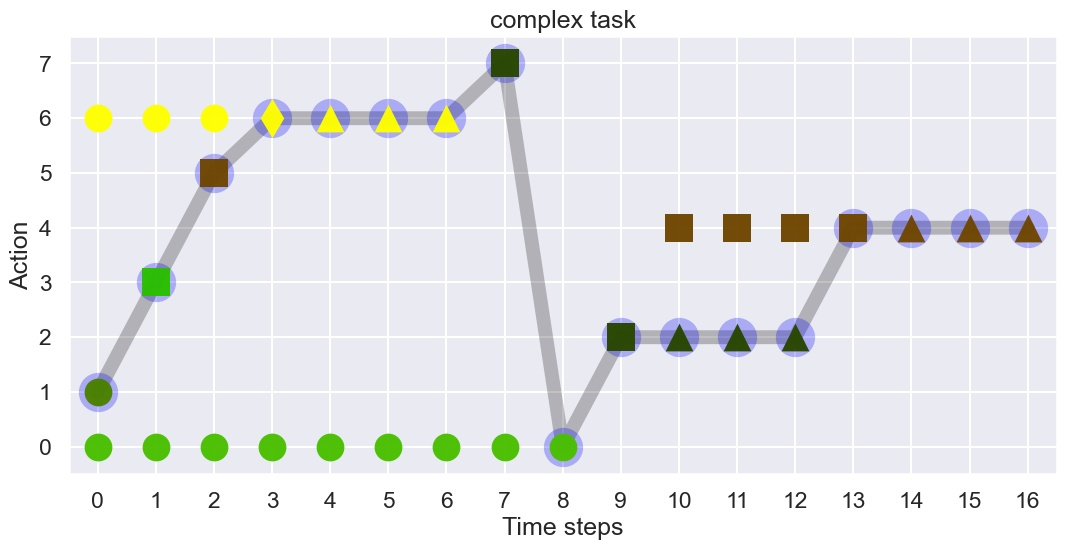
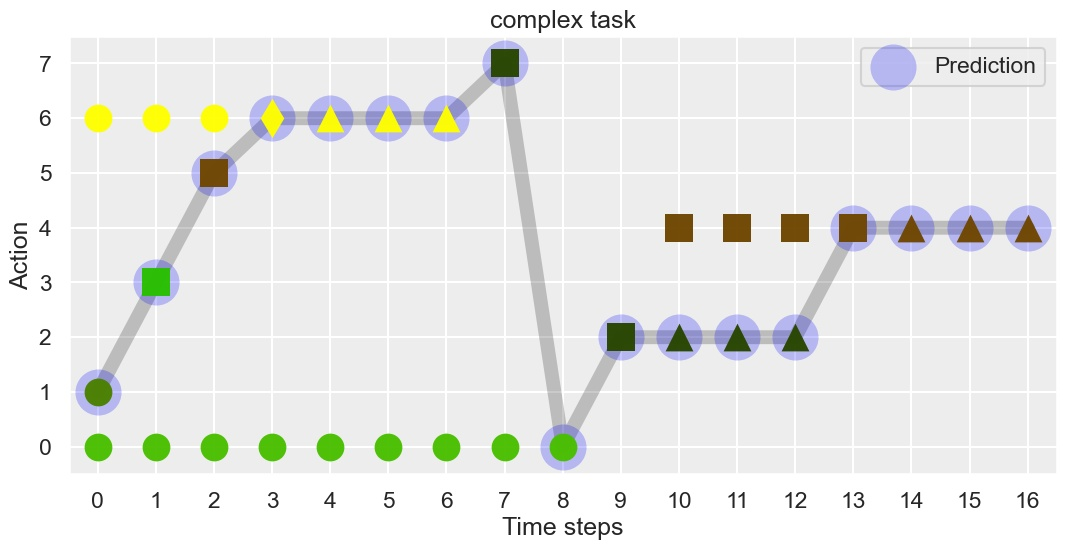
new visualize

diff --git a/src/visualize.py b/src/visualize.py
@@ -22,13 +22,13 @@ def visualize_rel_actions(task, demo, idx, prefix, predictions=None):
     else:
         fig_width = 6
 
-    sns.set(style="darkgrid", context="talk")
-    fig = plt.figure(figsize=(fig_width, 6))
+    sns.set(style="darkgrid", context="talk", rc={'axes.facecolor': '0.93'})
+    plt.figure(figsize=(fig_width, 6))
     plt.xlabel('Time steps')
     plt.ylabel('Action')
 
     # plot user sequence
-    plt.plot(range(len(demo)), demo, "k", zorder=1, alpha=0.27, linewidth=10)
+    plt.plot(range(len(demo)), demo, "k", zorder=1, alpha=0.23, linewidth=10)
     feat_order = 2
 
     # plot the features for each action
@@ -37,9 +37,9 @@ def visualize_rel_actions(task, demo, idx, prefix, predictions=None):
         # plot predictions
         if predictions:
             pred_a = list(set(predictions[step]))
-            plt.scatter([step] * len(pred_a), pred_a, s=800, c=[[0.0, 0.0, 1.0]], marker="o", zorder=2, alpha=0.27,
-                        linewidth=0.0)
-
+            scat = plt.scatter([step] * len(pred_a), pred_a, s=1100, facecolor=(0, 0, 1, 0.23), label="Prediction",
+                               edgecolors=(0, 0, 0.1, 0.23), marker="o", zorder=2, linewidth=0.0)
+            plt.legend(handles=[scat])
             feat_order = 3
 
         candidates = set()
@@ -167,35 +167,43 @@ def visualize_rel_candidates(task, demo, idx, prefix):
     return
 
 
-# Plot heatmap
-sns.set(style="white", context="talk")
-fig = plt.figure(figsize=(2.7, 2.7))
-x = np.linspace(0.0, 1.0, 10)
-y = np.linspace(0.0, 1.0, 10)
-c = [[x_val, y_val, 0.0] for y_val in y for x_val in x]
-x, y = np.meshgrid(x, y)
-plt.axis('equal')
-plt.xticks([0, 1])
-plt.yticks([0, 1])
-plt.xlabel('Physical Effort')
-plt.ylabel('Mental Effort')
-plt.scatter(x, y, s=200, c=c, marker='s', linewidth=0.0, alpha=0.97)
-plt.gcf().subplots_adjust(bottom=0.25)
-plt.gcf().subplots_adjust(left=0.25)
-# plt.savefig("visualizations/heatmap.jpg")
-# plt.show()
+# # Plot heatmap
+# sns.set(style="white", context="talk")
+# fig = plt.figure(figsize=(2.7, 2.7))
+# x = np.linspace(0.0, 1.0, 10)
+# y = np.linspace(0.0, 1.0, 10)
+# c = [[x_val, y_val, 0.0] for y_val in y for x_val in x]
+# x, y = np.meshgrid(x, y)
+# plt.axis('equal')
+# plt.xticks([0, 1])
+# plt.yticks([0, 1])
+# plt.xlabel('Physical Effort')
+# plt.ylabel('Mental Effort')
+# plt.scatter(x, y, s=200, c=c, marker='s', linewidth=0.0, alpha=0.97)
+# plt.gcf().subplots_adjust(bottom=0.25)
+# plt.gcf().subplots_adjust(left=0.25)
+# # plt.savefig("visualizations/heatmap.jpg")
+# # plt.show()
+#
+# # plot legend
+# fig = plt.figure(figsize=(2.7, 2.7))
+# no = mlines.Line2D([], [], color='k', marker='o', linestyle='None',
+#                    markersize=10, label='Not same', alpha=0.72, linewidth=0)
+# tool = mlines.Line2D([], [], color='k', marker='d', linestyle='None',
+#                      markersize=10, label='Same tool', alpha=0.72, linewidth=0)
+# part = mlines.Line2D([], [], color='k', marker='s', linestyle='None',
+#                      markersize=10, label='Same part', alpha=0.72, linewidth=0)
+# partool = mlines.Line2D([], [], color='k', marker='^', linestyle='None',
+#                         markersize=10, label='Same tool & part', alpha=0.72, linewidth=0)
+# plt.legend(handles=[partool, part, tool, no], loc="center")
+# plt.axis("off")
+# # plt.savefig("visualizations/legend.jpg")
+# # plt.show()
 
 # plot legend
-fig = plt.figure(figsize=(2.7, 2.7))
-no = mlines.Line2D([], [], color='k', marker='o', linestyle='None',
-                   markersize=10, label='Not same', alpha=0.72, linewidth=0)
-tool = mlines.Line2D([], [], color='k', marker='d', linestyle='None',
-                     markersize=10, label='Same tool', alpha=0.72, linewidth=0)
-part = mlines.Line2D([], [], color='k', marker='s', linestyle='None',
-                     markersize=10, label='Same part', alpha=0.72, linewidth=0)
-partool = mlines.Line2D([], [], color='k', marker='^', linestyle='None',
-                        markersize=10, label='Same tool & part', alpha=0.72, linewidth=0)
-plt.legend(handles=[partool, part, tool, no], loc="center")
+fig = plt.figure()
+proposed = mlines.Line2D([], [], markerfacecolor='b', marker='o', linestyle='None', markeredgecolor=(0, 0, 0.1, 0.23),
+                         markersize=15, alpha=0.23, label='Prediction', linewidth=0)
+plt.legend(handles=[proposed], loc="center", fontsize=18)
 plt.axis("off")
-# plt.savefig("visualizations/legend.jpg")
-# plt.show()
+plt.savefig("visualizations/legend2.jpg")

diff --git a/src/experiments.py b/src/experiments.py
@@ -79,14 +79,14 @@ scale_weights = False
 
 visualize = True
 
-run_proposed = False
-run_random_baseline = True
+run_proposed = True
+run_random_baseline = False
 
 match_scores, predict_scores, random_scores = [], [], []
 
 # loop over all users
 for i in range(len(canonical_demos)):
-
+    i = 1
     print("=======================")
     print("User:", i)
 
